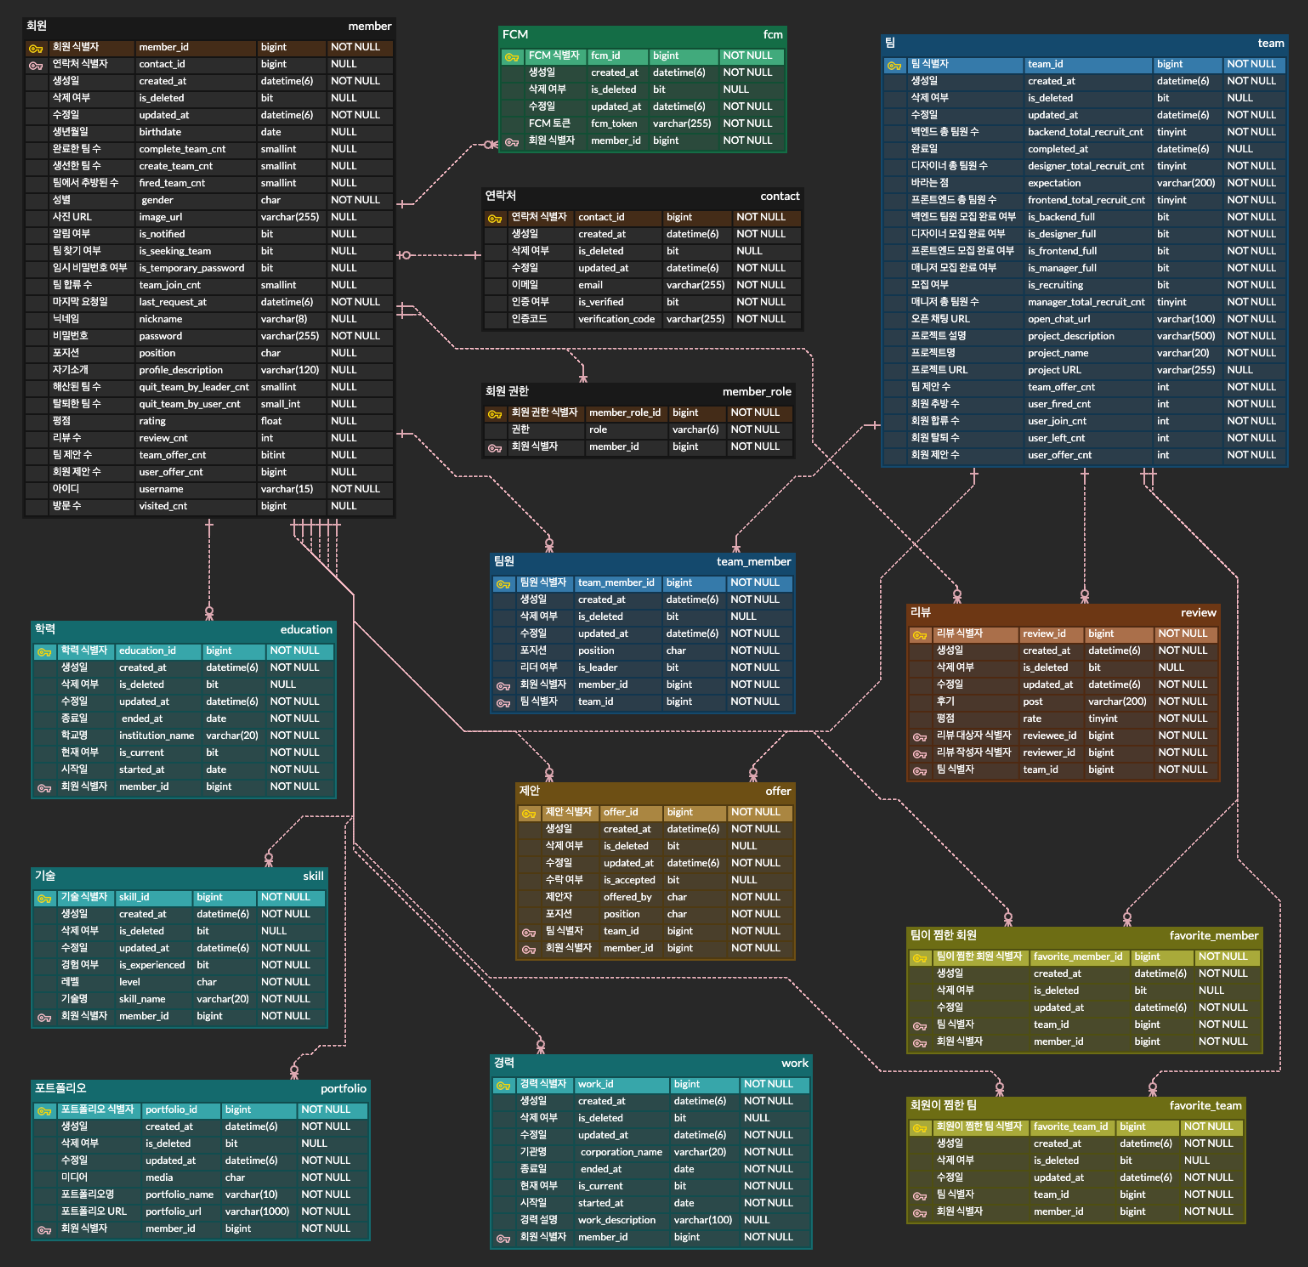
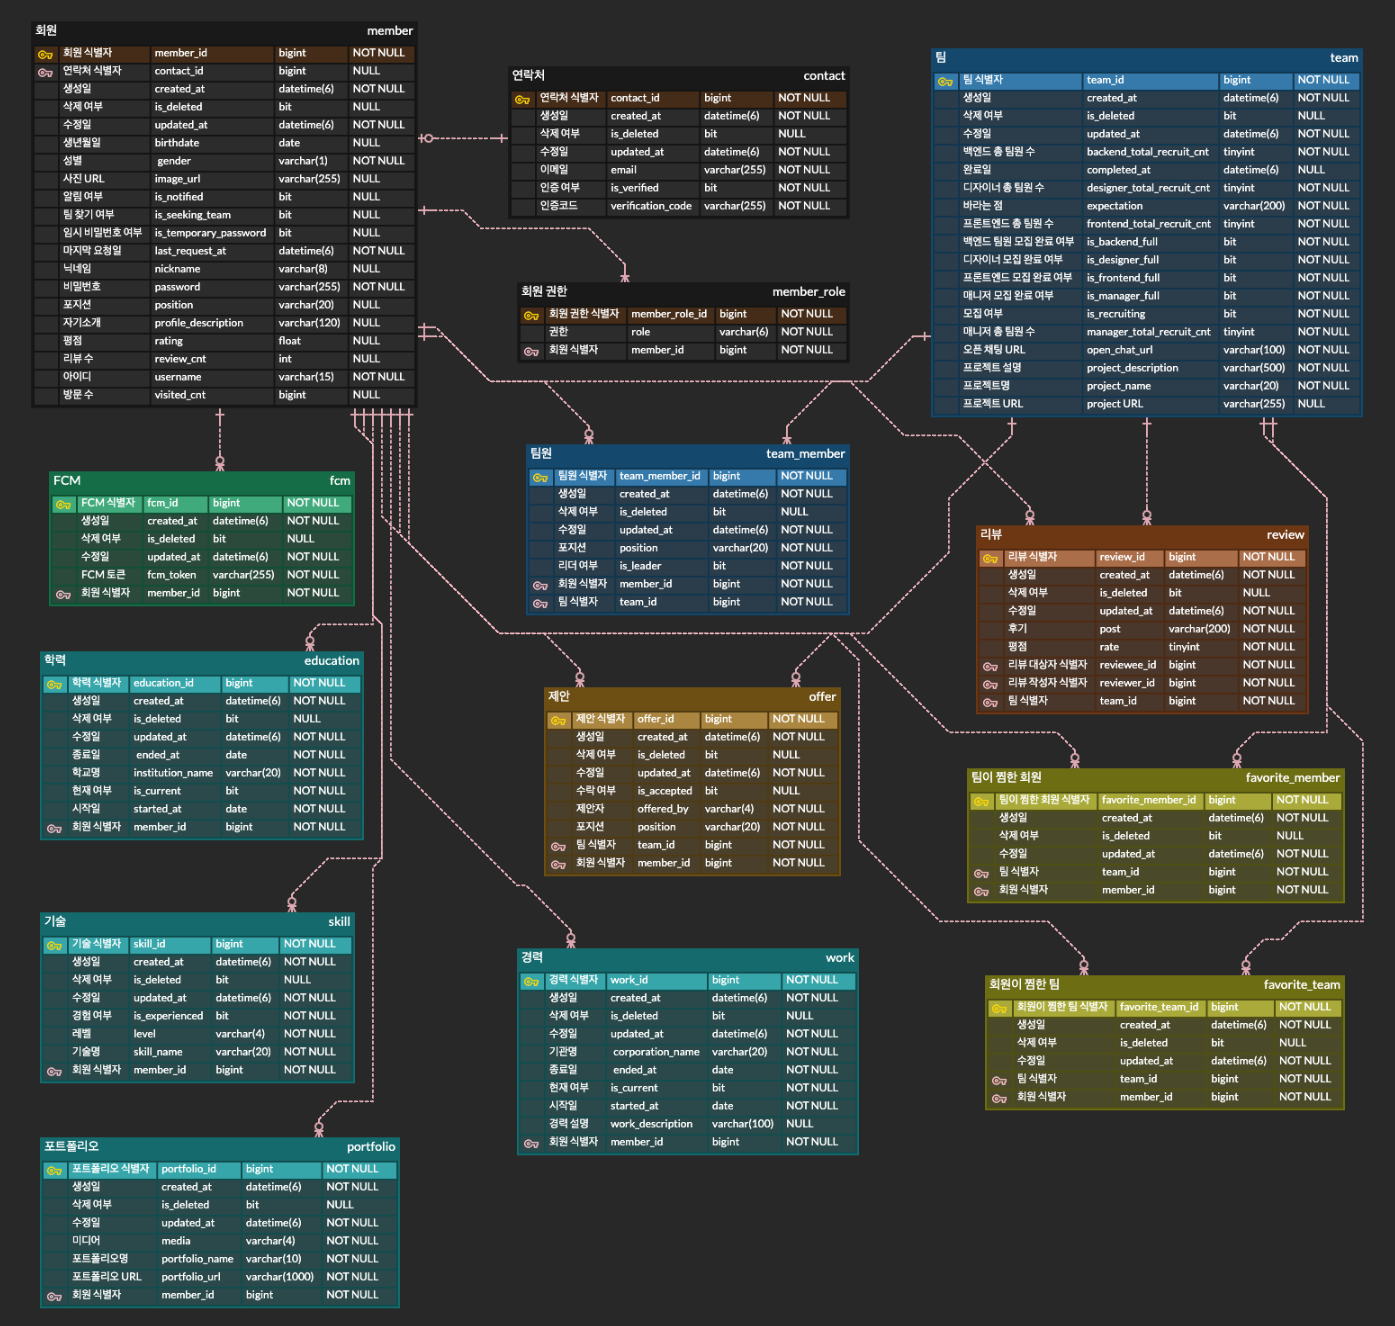
[REFACTOR] remove unnecessary statistics in domain

diff --git a/src/main/java/com/gabojait/gabojaitspring/user/domain/User.java b/src/main/java/com/gabojait/gabojaitspring/user/domain/User.java
@@ -8,8 +8,6 @@ import com.gabojait.gabojaitspring.profile.domain.Skill;
 import com.gabojait.gabojaitspring.profile.domain.Work;
 import com.gabojait.gabojaitspring.profile.domain.type.Position;
 import com.gabojait.gabojaitspring.review.domain.Review;
-import com.gabojait.gabojaitspring.team.domain.Team;
-import com.gabojait.gabojaitspring.team.domain.TeamMember;
 import com.gabojait.gabojaitspring.user.domain.type.Gender;
 import com.gabojait.gabojaitspring.user.domain.type.Role;
 import lombok.*;
@@ -92,15 +90,7 @@ public class User extends BaseTimeEntity implements UserDetails {
     private String imageUrl;
 
     private Float rating;
-    private Long userOfferCnt;
-    private Long teamOfferCnt;
     private Long visitedCnt;
-    private Short createTeamCnt;
-    private Short joinTeamCnt;
-    private Short firedTeamCnt;
-    private Short quitTeamByLeaderCnt;
-    private Short quitTeamByUserCnt;
-    private Short completeTeamCnt;
     private Integer reviewCnt;
     private Boolean isTemporaryPassword;
     private Boolean isNotified;
@@ -125,15 +115,7 @@ public class User extends BaseTimeEntity implements UserDetails {
         this.isSeekingTeam = true;
 
         this.rating = 0F;
-        this.userOfferCnt = 0L;
-        this.teamOfferCnt = 0L;
         this.visitedCnt = 0L;
-        this.createTeamCnt = 0;
-        this.joinTeamCnt = 0;
-        this.firedTeamCnt = 0;
-        this.quitTeamByLeaderCnt = 0;
-        this.quitTeamByUserCnt = 0;
-        this.completeTeamCnt = 0;
         this.reviewCnt = 0;
         this.isTemporaryPassword = false;
         this.isNotified = true;
@@ -302,30 +284,6 @@ public class User extends BaseTimeEntity implements UserDetails {
     }
 
     /*
-     * Team related
-     */
-
-    public void incrementCreateTeamCnt() {
-        this.createTeamCnt++;
-    }
-
-    public void incrementJoinTeamCnt() {
-        this.joinTeamCnt++;
-    }
-
-    public void incrementQuitTeamByLeaderCnt() {
-        this.quitTeamByLeaderCnt++;
-    }
-
-    public void incrementQuitTeamByUserCnt() {
-        this.quitTeamByUserCnt++;
-    }
-
-    public void incrementCompleteTeamCnt() {
-        this.completeTeamCnt++;
-    }
-
-    /*
      * Review related
      */
 
@@ -337,17 +295,5 @@ public class User extends BaseTimeEntity implements UserDetails {
                     + (rating * (1 / ((float) this.reviewCnt + 1)));
 
         this.reviewCnt++;
-    }
-
-    /*
-     * Offer related
-     */
-
-    public void incrementUserOfferCnt() {
-        this.userOfferCnt++;
-    }
-
-    public void incrementTeamOfferCnt() {
-        this.teamOfferCnt++;
     }
 }

diff --git a/src/main/java/com/gabojait/gabojaitspring/team/domain/Team.java b/src/main/java/com/gabojait/gabojaitspring/team/domain/Team.java
@@ -61,16 +61,6 @@ public class Team extends BaseTimeEntity {
     private LocalDateTime completedAt;
     @Column(nullable = false)
     private Long visitedCnt;
-    @Column(nullable = false)
-    private Integer userOfferCnt;
-    @Column(nullable = false)
-    private Integer teamOfferCnt;
-    @Column(nullable = false)
-    private Integer userJoinCnt;
-    @Column(nullable = false)
-    private Integer userFiredCnt;
-    @Column(nullable = false)
-    private Integer userLeftCnt;
 
     @Builder
     public Team(String projectName,
@@ -102,11 +92,6 @@ public class Team extends BaseTimeEntity {
         this.isManagerFull = isManagerFull;
         this.completedAt = null;
         this.visitedCnt = 0L;
-        this.userOfferCnt = 0;
-        this.teamOfferCnt = 0;
-        this.userJoinCnt = 0;
-        this.userFiredCnt = 0;
-        this.userLeftCnt = 0;
         this.isDeleted = false;
     }
 
@@ -182,26 +167,6 @@ public class Team extends BaseTimeEntity {
 
     public void incrementVisitedCnt() {
         this.visitedCnt++;
-    }
-
-    public void incrementUserOfferCnt() {
-        this.userOfferCnt++;
-    }
-
-    public void incrementTeamOfferCnt() {
-        this.teamOfferCnt++;
-    }
-
-    public void incrementUserJoinCnt() {
-        this.userJoinCnt++;
-    }
-
-    public void incrementUserFiredCnt() {
-        this.userFiredCnt++;
-    }
-
-    public void incrementUserLeftCnt() {
-        this.userLeftCnt++;
     }
 
     public void incomplete() {

diff --git a/src/main/java/com/gabojait/gabojaitspring/offer/service/OfferService.java b/src/main/java/com/gabojait/gabojaitspring/offer/service/OfferService.java
@@ -53,9 +53,6 @@ public class OfferService {
         Offer offer = request.toEntity(user, team, OfferedBy.USER);
         saveOffer(offer);
 
-        team.incrementUserOfferCnt();
-        user.incrementUserOfferCnt();
-
         fcmProvider.sendOfferByUser(offer);
     }
 
@@ -83,9 +80,6 @@ public class OfferService {
         Offer offer = request.toEntity(user, team, OfferedBy.TEAM);
         saveOffer(offer);
 
-        team.incrementTeamOfferCnt();
-        user.incrementTeamOfferCnt();
-
         fcmProvider.sendOfferByTeam(offer);
     }
 
@@ -110,9 +104,6 @@ public class OfferService {
             List<Offer> offers = findAllOfferByUserAndTeam(user, team);
             for (Offer o : offers)
                 o.cancel();
-
-            user.incrementJoinTeamCnt();
-            team.incrementUserJoinCnt();
 
             fcmProvider.sendTeamMemberJoin(offer);
         } else {
@@ -146,9 +137,6 @@ public class OfferService {
             List<Offer> offers = findAllOfferByUserAndTeam(user, team);
             for (Offer o : offers)
                 o.cancel();
-
-            user.incrementJoinTeamCnt();
-            team.incrementUserJoinCnt();
 
             fcmProvider.sendTeamMemberJoin(offer);
         } else {

diff --git a/src/main/java/com/gabojait/gabojaitspring/team/service/TeamService.java b/src/main/java/com/gabojait/gabojaitspring/team/service/TeamService.java
@@ -171,11 +171,6 @@ public class TeamService {
         user.updateIsSeekingTeam(false);
 
         team.updateIsPositionFull(position);
-
-        if (isLeader)
-            user.incrementCreateTeamCnt();
-        else
-            user.incrementJoinTeamCnt();
     }
 
     /**
@@ -191,8 +186,6 @@ public class TeamService {
         Team team = teamMember.getTeam();
 
         user.updateIsSeekingTeam(true);
-        team.incrementUserLeftCnt();
-        user.incrementQuitTeamByUserCnt();
 
         teamMember.delete();
 
@@ -450,8 +443,6 @@ public class TeamService {
         for(TeamMember teamMember : team.getTeamMembers()) {
             teamMember.delete();
             teamMember.getUser().updateIsSeekingTeam(true);
-
-            teamMember.getUser().incrementQuitTeamByLeaderCnt();
         }
 
         team.incomplete();
@@ -466,8 +457,6 @@ public class TeamService {
         for(TeamMember teamMember : team.getTeamMembers()) {
             teamMember.delete();
             teamMember.getUser().updateIsSeekingTeam(true);
-
-            teamMember.getUser().incrementCompleteTeamCnt();
         }
 
         team.complete(projectUrl);

diff --git a/src/main/java/com/gabojait/gabojaitspring/profile/service/ProfileService.java b/src/main/java/com/gabojait/gabojaitspring/profile/service/ProfileService.java
@@ -2,7 +2,6 @@ package com.gabojait.gabojaitspring.profile.service;
 
 import com.gabojait.gabojaitspring.common.util.FileProvider;
 import com.gabojait.gabojaitspring.common.util.PageProvider;
-import com.gabojait.gabojaitspring.common.util.PasswordProvider;
 import com.gabojait.gabojaitspring.exception.CustomException;
 import com.gabojait.gabojaitspring.favorite.domain.FavoriteUser;
 import com.gabojait.gabojaitspring.favorite.repository.FavoriteUserRepository;

diff --git a/src/main/java/com/gabojait/gabojaitspring/favorite/service/FavoriteUserService.java b/src/main/java/com/gabojait/gabojaitspring/favorite/service/FavoriteUserService.java
@@ -1,7 +1,6 @@
 package com.gabojait.gabojaitspring.favorite.service;
 
 import com.gabojait.gabojaitspring.common.util.PageProvider;
-import com.gabojait.gabojaitspring.common.util.PasswordProvider;
 import com.gabojait.gabojaitspring.exception.CustomException;
 import com.gabojait.gabojaitspring.favorite.domain.FavoriteUser;
 import com.gabojait.gabojaitspring.favorite.repository.FavoriteUserRepository;

diff --git a/src/main/java/com/gabojait/gabojaitspring/develop/service/DevelopService.java b/src/main/java/com/gabojait/gabojaitspring/develop/service/DevelopService.java
@@ -318,8 +318,6 @@ public class DevelopService {
 
                 teamMemberRepository.save(teamMember);
 
-                users.get(j).incrementCompleteTeamCnt();
-
                 if (j % 5 == 4)
                     team.complete("github.com/gabojait.com");
             }
